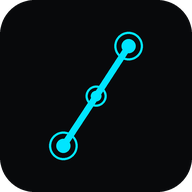
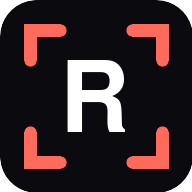
feat(brand): real ReadyMadeVideo identity from the legacy site assets
The rebrand had inherited Stromation's cyan node-arrow mark with the text
swapped — and every BINARY asset was still fully Stromation-branded, which
a text audit cannot catch: og.png served "STROMATION — Build a business
that runs itself" on every social share, and favicon.ico / icon-192/512 /
apple-touch-icon.png all carried the cyan mark.

Brought over the genuine ReadyMadeVideo identity from the legacy site
(~/Documents/readymade): the coral (#ff6b5b) viewfinder mark with the R,
plus compact wordmark and dark variants.

- favicon.svg + logos/ (logo, dark, icon, icon-dark) replace the
  text-swapped Stromation SVGs; stray stromation-icon.svg removed
- All binary icons regenerated from the real mark at proper density
  (favicon.ico 16/32/48, favicon-32x32, apple-touch 180, icons 192/512)
- og.png (1200x630) and banner rebuilt: viewfinder mark, READYMADEVIDEO
  eyebrow, "Raw footage in. Finished video out." matching the live h1
- Inline nav SVG swapped on all six content pages (2 instances each,
  header + footer); SVG favicon link added across all 12 root pages
- App SPA: src/assets/icon.svg (bundled into nav/login/editor via vite)
  replaced with the real mark; app/public/ created so /favicon.ico,
  /favicon-32x32.png and /apple-touch-icon.png referenced by app/index.html
  actually exist on Vercel (they previously 404'd into the SPA rewrite)

Verified: zero #00E5FF (old cyan) left in any served file, vite build OK,
frontend tests pass.

diff --git a/index.html b/index.html
@@ -6,6 +6,7 @@
 <title>ReadyMadeVideo — Raw footage in. Finished video out.</title>
 <meta name="description" content="Upload your raw footage, describe the style you want, and ReadyMadeVideo builds the complete first edit.">
 <link rel="canonical" href="https://www.readymadevideo.com/">
+<link rel="icon" type="image/svg+xml" href="favicon.svg">
 <link rel="icon" type="image/x-icon" href="favicon.ico">
 <link rel="apple-touch-icon" sizes="180x180" href="favicon.ico">
 <meta name="theme-color" content="#0a0a0f">
@@ -244,7 +245,11 @@ section{padding:96px 0}
 <a href="#main" class="skip">Skip to content</a>
 <nav class="nav" id="nav">
   <a href="index.html" class="nav-logo" aria-label="ReadyMadeVideo home">
-    <svg viewBox="0 0 500 600" fill="none" xmlns="http://www.w3.org/2000/svg" aria-hidden="true" width="28" height="28"><defs><marker id="c1" viewBox="0 0 12 12" refX="10" refY="6" markerWidth="4" markerHeight="4" orient="auto"><path d="M2 2L10 6L2 10" fill="none" stroke="#00E5FF" stroke-width="2" stroke-linecap="round" stroke-linejoin="round"/></marker><marker id="c2" viewBox="0 0 12 12" refX="10" refY="6" markerWidth="4" markerHeight="4" orient="auto"><path d="M2 2L10 6L2 10" fill="none" stroke="#00E5FF" stroke-width="2" stroke-linecap="round" stroke-linejoin="round"/></marker></defs><path d="M333,108 C240,100 125,162 124,252 C123,312 194,328 232,332" fill="none" stroke="#00E5FF" stroke-width="14" stroke-linecap="round" marker-end="url(#c1)"/><path d="M268,344 C366,362 394,444 368,506 C346,558 262,572 168,568" fill="none" stroke="#00E5FF" stroke-width="14" stroke-linecap="round" marker-end="url(#c2)"/><circle cx="355" cy="100" r="58" fill="none" stroke="#00E5FF" stroke-width="1" opacity="0.07"/><circle cx="355" cy="100" r="40" fill="none" stroke="#00E5FF" stroke-width="1.5" opacity="0.18"/><circle cx="355" cy="100" r="24" fill="none" stroke="#00E5FF" stroke-width="2.8"/><circle cx="355" cy="100" r="10" fill="#00E5FF"/><circle cx="250" cy="338" r="20" fill="none" stroke="#00E5FF" stroke-width="2.8"/><circle cx="250" cy="338" r="9" fill="#00E5FF"/><circle cx="145" cy="572" r="58" fill="none" stroke="#00E5FF" stroke-width="1" opacity="0.07"/><circle cx="145" cy="572" r="40" fill="none" stroke="#00E5FF" stroke-width="1.5" opacity="0.18"/><circle cx="145" cy="572" r="24" fill="none" stroke="#00E5FF" stroke-width="2.8"/><circle cx="145" cy="572" r="10" fill="#00E5FF"/></svg>
+    <svg viewBox="0 0 40 40" width="28" height="28" xmlns="http://www.w3.org/2000/svg" aria-hidden="true"><path d="M3 10 L3 3 L10 3" stroke="#ff6b5b" stroke-width="2.5" fill="none" stroke-linecap="round"/>
+    <path d="M30 3 L37 3 L37 10" stroke="#ff6b5b" stroke-width="2.5" fill="none" stroke-linecap="round"/>
+    <path d="M37 30 L37 37 L30 37" stroke="#ff6b5b" stroke-width="2.5" fill="none" stroke-linecap="round"/>
+    <path d="M10 37 L3 37 L3 30" stroke="#ff6b5b" stroke-width="2.5" fill="none" stroke-linecap="round"/>
+    <text x="12" y="28" font-family="Syne, sans-serif" font-size="22" font-weight="700" fill="#ffffff">R</text></svg>
     <span class="nav-logo-text">READYMADEVIDEO</span>
   </a>
   <div class="nav-links" id="nav-links">
@@ -498,7 +503,11 @@ section{padding:96px 0}
     <div class="footer-grid">
       <div class="footer-brand">
         <a href="index.html" class="nav-logo" style="display:inline-flex" aria-label="ReadyMadeVideo home">
-          <svg viewBox="0 0 500 600" fill="none" xmlns="http://www.w3.org/2000/svg" aria-hidden="true" width="22" height="22"><defs><marker id="c1" viewBox="0 0 12 12" refX="10" refY="6" markerWidth="4" markerHeight="4" orient="auto"><path d="M2 2L10 6L2 10" fill="none" stroke="#00E5FF" stroke-width="2" stroke-linecap="round" stroke-linejoin="round"/></marker><marker id="c2" viewBox="0 0 12 12" refX="10" refY="6" markerWidth="4" markerHeight="4" orient="auto"><path d="M2 2L10 6L2 10" fill="none" stroke="#00E5FF" stroke-width="2" stroke-linecap="round" stroke-linejoin="round"/></marker></defs><path d="M333,108 C240,100 125,162 124,252 C123,312 194,328 232,332" fill="none" stroke="#00E5FF" stroke-width="14" stroke-linecap="round" marker-end="url(#c1)"/><path d="M268,344 C366,362 394,444 368,506 C346,558 262,572 168,568" fill="none" stroke="#00E5FF" stroke-width="14" stroke-linecap="round" marker-end="url(#c2)"/><circle cx="355" cy="100" r="58" fill="none" stroke="#00E5FF" stroke-width="1" opacity="0.07"/><circle cx="355" cy="100" r="40" fill="none" stroke="#00E5FF" stroke-width="1.5" opacity="0.18"/><circle cx="355" cy="100" r="24" fill="none" stroke="#00E5FF" stroke-width="2.8"/><circle cx="355" cy="100" r="10" fill="#00E5FF"/><circle cx="250" cy="338" r="20" fill="none" stroke="#00E5FF" stroke-width="2.8"/><circle cx="250" cy="338" r="9" fill="#00E5FF"/><circle cx="145" cy="572" r="58" fill="none" stroke="#00E5FF" stroke-width="1" opacity="0.07"/><circle cx="145" cy="572" r="40" fill="none" stroke="#00E5FF" stroke-width="1.5" opacity="0.18"/><circle cx="145" cy="572" r="24" fill="none" stroke="#00E5FF" stroke-width="2.8"/><circle cx="145" cy="572" r="10" fill="#00E5FF"/></svg>
+          <svg viewBox="0 0 40 40" width="28" height="28" xmlns="http://www.w3.org/2000/svg" aria-hidden="true"><path d="M3 10 L3 3 L10 3" stroke="#ff6b5b" stroke-width="2.5" fill="none" stroke-linecap="round"/>
+    <path d="M30 3 L37 3 L37 10" stroke="#ff6b5b" stroke-width="2.5" fill="none" stroke-linecap="round"/>
+    <path d="M37 30 L37 37 L30 37" stroke="#ff6b5b" stroke-width="2.5" fill="none" stroke-linecap="round"/>
+    <path d="M10 37 L3 37 L3 30" stroke="#ff6b5b" stroke-width="2.5" fill="none" stroke-linecap="round"/>
+    <text x="12" y="28" font-family="Syne, sans-serif" font-size="22" font-weight="700" fill="#ffffff">R</text></svg>
           <span class="nav-logo-text" style="margin-left:8px">READYMADEVIDEO</span>
         </a>
         <p>AI-first video production platform. Upload raw footage, describe your vision, receive a complete edit.</p>

diff --git a/pricing.html b/pricing.html
@@ -6,6 +6,7 @@
 <title>Pricing — ReadyMadeVideo</title>
 <meta name="description" content="Early access pricing. No public plans yet.">
 <link rel="canonical" href="https://www.readymadevideo.com/pricing.html">
+<link rel="icon" type="image/svg+xml" href="favicon.svg">
 <link rel="icon" type="image/x-icon" href="favicon.ico">
 <meta name="theme-color" content="#0a0a0f">
 <meta property="og:type" content="website">
@@ -121,7 +122,11 @@ details[open] .faq-q::after{content:'&minus;'}
 <a href="#main" class="skip">Skip to content</a>
 <nav class="nav" id="nav">
   <a href="index.html" class="nav-logo" aria-label="ReadyMadeVideo home">
-    <svg viewBox="0 0 500 600" fill="none" xmlns="http://www.w3.org/2000/svg" aria-hidden="true" width="28" height="28"><defs><marker id="c1" viewBox="0 0 12 12" refX="10" refY="6" markerWidth="4" markerHeight="4" orient="auto"><path d="M2 2L10 6L2 10" fill="none" stroke="#00E5FF" stroke-width="2" stroke-linecap="round" stroke-linejoin="round"/></marker><marker id="c2" viewBox="0 0 12 12" refX="10" refY="6" markerWidth="4" markerHeight="4" orient="auto"><path d="M2 2L10 6L2 10" fill="none" stroke="#00E5FF" stroke-width="2" stroke-linecap="round" stroke-linejoin="round"/></marker></defs><path d="M333,108 C240,100 125,162 124,252 C123,312 194,328 232,332" fill="none" stroke="#00E5FF" stroke-width="14" stroke-linecap="round" marker-end="url(#c1)"/><path d="M268,344 C366,362 394,444 368,506 C346,558 262,572 168,568" fill="none" stroke="#00E5FF" stroke-width="14" stroke-linecap="round" marker-end="url(#c2)"/><circle cx="355" cy="100" r="58" fill="none" stroke="#00E5FF" stroke-width="1" opacity="0.07"/><circle cx="355" cy="100" r="40" fill="none" stroke="#00E5FF" stroke-width="1.5" opacity="0.18"/><circle cx="355" cy="100" r="24" fill="none" stroke="#00E5FF" stroke-width="2.8"/><circle cx="355" cy="100" r="10" fill="#00E5FF"/><circle cx="250" cy="338" r="20" fill="none" stroke="#00E5FF" stroke-width="2.8"/><circle cx="250" cy="338" r="9" fill="#00E5FF"/><circle cx="145" cy="572" r="58" fill="none" stroke="#00E5FF" stroke-width="1" opacity="0.07"/><circle cx="145" cy="572" r="40" fill="none" stroke="#00E5FF" stroke-width="1.5" opacity="0.18"/><circle cx="145" cy="572" r="24" fill="none" stroke="#00E5FF" stroke-width="2.8"/><circle cx="145" cy="572" r="10" fill="#00E5FF"/></svg>
+    <svg viewBox="0 0 40 40" width="28" height="28" xmlns="http://www.w3.org/2000/svg" aria-hidden="true"><path d="M3 10 L3 3 L10 3" stroke="#ff6b5b" stroke-width="2.5" fill="none" stroke-linecap="round"/>
+    <path d="M30 3 L37 3 L37 10" stroke="#ff6b5b" stroke-width="2.5" fill="none" stroke-linecap="round"/>
+    <path d="M37 30 L37 37 L30 37" stroke="#ff6b5b" stroke-width="2.5" fill="none" stroke-linecap="round"/>
+    <path d="M10 37 L3 37 L3 30" stroke="#ff6b5b" stroke-width="2.5" fill="none" stroke-linecap="round"/>
+    <text x="12" y="28" font-family="Syne, sans-serif" font-size="22" font-weight="700" fill="#ffffff">R</text></svg>
     <span class="nav-logo-text">READYMADEVIDEO</span>
   </a>
   <div class="nav-links" id="nav-links">
@@ -182,7 +187,11 @@ details[open] .faq-q::after{content:'&minus;'}
     <div class="footer-grid">
       <div class="footer-brand">
         <a href="index.html" class="nav-logo" style="display:inline-flex" aria-label="ReadyMadeVideo home">
-          <svg viewBox="0 0 500 600" fill="none" xmlns="http://www.w3.org/2000/svg" aria-hidden="true" width="22" height="22"><defs><marker id="c1" viewBox="0 0 12 12" refX="10" refY="6" markerWidth="4" markerHeight="4" orient="auto"><path d="M2 2L10 6L2 10" fill="none" stroke="#00E5FF" stroke-width="2" stroke-linecap="round" stroke-linejoin="round"/></marker><marker id="c2" viewBox="0 0 12 12" refX="10" refY="6" markerWidth="4" markerHeight="4" orient="auto"><path d="M2 2L10 6L2 10" fill="none" stroke="#00E5FF" stroke-width="2" stroke-linecap="round" stroke-linejoin="round"/></marker></defs><path d="M333,108 C240,100 125,162 124,252 C123,312 194,328 232,332" fill="none" stroke="#00E5FF" stroke-width="14" stroke-linecap="round" marker-end="url(#c1)"/><path d="M268,344 C366,362 394,444 368,506 C346,558 262,572 168,568" fill="none" stroke="#00E5FF" stroke-width="14" stroke-linecap="round" marker-end="url(#c2)"/><circle cx="355" cy="100" r="58" fill="none" stroke="#00E5FF" stroke-width="1" opacity="0.07"/><circle cx="355" cy="100" r="40" fill="none" stroke="#00E5FF" stroke-width="1.5" opacity="0.18"/><circle cx="355" cy="100" r="24" fill="none" stroke="#00E5FF" stroke-width="2.8"/><circle cx="355" cy="100" r="10" fill="#00E5FF"/><circle cx="250" cy="338" r="20" fill="none" stroke="#00E5FF" stroke-width="2.8"/><circle cx="250" cy="338" r="9" fill="#00E5FF"/><circle cx="145" cy="572" r="58" fill="none" stroke="#00E5FF" stroke-width="1" opacity="0.07"/><circle cx="145" cy="572" r="40" fill="none" stroke="#00E5FF" stroke-width="1.5" opacity="0.18"/><circle cx="145" cy="572" r="24" fill="none" stroke="#00E5FF" stroke-width="2.8"/><circle cx="145" cy="572" r="10" fill="#00E5FF"/></svg>
+          <svg viewBox="0 0 40 40" width="28" height="28" xmlns="http://www.w3.org/2000/svg" aria-hidden="true"><path d="M3 10 L3 3 L10 3" stroke="#ff6b5b" stroke-width="2.5" fill="none" stroke-linecap="round"/>
+    <path d="M30 3 L37 3 L37 10" stroke="#ff6b5b" stroke-width="2.5" fill="none" stroke-linecap="round"/>
+    <path d="M37 30 L37 37 L30 37" stroke="#ff6b5b" stroke-width="2.5" fill="none" stroke-linecap="round"/>
+    <path d="M10 37 L3 37 L3 30" stroke="#ff6b5b" stroke-width="2.5" fill="none" stroke-linecap="round"/>
+    <text x="12" y="28" font-family="Syne, sans-serif" font-size="22" font-weight="700" fill="#ffffff">R</text></svg>
           <span class="nav-logo-text" style="margin-left:8px">READYMADEVIDEO</span>
         </a>
         <p>AI-first video production platform. Upload raw footage, describe your vision, receive a complete edit.</p>

diff --git a/about.html b/about.html
@@ -6,6 +6,7 @@
 <title>About — ReadyMadeVideo</title>
 <meta name="description" content="ReadyMadeVideo is an AI-first video production platform being built by Darius Stroman, a software engineer and systems professional.">
 <link rel="canonical" href="https://www.readymadevideo.com/about.html">
+<link rel="icon" type="image/svg+xml" href="favicon.svg">
 <link rel="icon" type="image/x-icon" href="favicon.ico">
 <meta name="theme-color" content="#0a0a0f">
 <meta property="og:type" content="website">
@@ -34,7 +35,11 @@
 <a href="#main" class="skip">Skip to content</a>
 <nav class="nav" id="nav">
   <a href="index.html" class="nav-logo" aria-label="ReadyMadeVideo home">
-    <svg viewBox="0 0 500 600" fill="none" xmlns="http://www.w3.org/2000/svg" aria-hidden="true" width="28" height="28"><defs><marker id="c1" viewBox="0 0 12 12" refX="10" refY="6" markerWidth="4" markerHeight="4" orient="auto"><path d="M2 2L10 6L2 10" fill="none" stroke="#00E5FF" stroke-width="2" stroke-linecap="round" stroke-linejoin="round"/></marker><marker id="c2" viewBox="0 0 12 12" refX="10" refY="6" markerWidth="4" markerHeight="4" orient="auto"><path d="M2 2L10 6L2 10" fill="none" stroke="#00E5FF" stroke-width="2" stroke-linecap="round" stroke-linejoin="round"/></marker></defs><path d="M333,108 C240,100 125,162 124,252 C123,312 194,328 232,332" fill="none" stroke="#00E5FF" stroke-width="14" stroke-linecap="round" marker-end="url(#c1)"/><path d="M268,344 C366,362 394,444 368,506 C346,558 262,572 168,568" fill="none" stroke="#00E5FF" stroke-width="14" stroke-linecap="round" marker-end="url(#c2)"/><circle cx="355" cy="100" r="58" fill="none" stroke="#00E5FF" stroke-width="1" opacity="0.07"/><circle cx="355" cy="100" r="40" fill="none" stroke="#00E5FF" stroke-width="1.5" opacity="0.18"/><circle cx="355" cy="100" r="24" fill="none" stroke="#00E5FF" stroke-width="2.8"/><circle cx="355" cy="100" r="10" fill="#00E5FF"/><circle cx="250" cy="338" r="20" fill="none" stroke="#00E5FF" stroke-width="2.8"/><circle cx="250" cy="338" r="9" fill="#00E5FF"/><circle cx="145" cy="572" r="58" fill="none" stroke="#00E5FF" stroke-width="1" opacity="0.07"/><circle cx="145" cy="572" r="40" fill="none" stroke="#00E5FF" stroke-width="1.5" opacity="0.18"/><circle cx="145" cy="572" r="24" fill="none" stroke="#00E5FF" stroke-width="2.8"/><circle cx="145" cy="572" r="10" fill="#00E5FF"/></svg>
+    <svg viewBox="0 0 40 40" width="28" height="28" xmlns="http://www.w3.org/2000/svg" aria-hidden="true"><path d="M3 10 L3 3 L10 3" stroke="#ff6b5b" stroke-width="2.5" fill="none" stroke-linecap="round"/>
+    <path d="M30 3 L37 3 L37 10" stroke="#ff6b5b" stroke-width="2.5" fill="none" stroke-linecap="round"/>
+    <path d="M37 30 L37 37 L30 37" stroke="#ff6b5b" stroke-width="2.5" fill="none" stroke-linecap="round"/>
+    <path d="M10 37 L3 37 L3 30" stroke="#ff6b5b" stroke-width="2.5" fill="none" stroke-linecap="round"/>
+    <text x="12" y="28" font-family="Syne, sans-serif" font-size="22" font-weight="700" fill="#ffffff">R</text></svg>
     <span class="nav-logo-text">READYMADEVIDEO</span>
   </a>
   <div class="nav-links" id="nav-links">
@@ -84,7 +89,11 @@
     <div class="footer-grid">
       <div class="footer-brand">
         <a href="index.html" class="nav-logo" style="display:inline-flex" aria-label="ReadyMadeVideo home">
-          <svg viewBox="0 0 500 600" fill="none" xmlns="http://www.w3.org/2000/svg" aria-hidden="true" width="22" height="22"><defs><marker id="c1" viewBox="0 0 12 12" refX="10" refY="6" markerWidth="4" markerHeight="4" orient="auto"><path d="M2 2L10 6L2 10" fill="none" stroke="#00E5FF" stroke-width="2" stroke-linecap="round" stroke-linejoin="round"/></marker><marker id="c2" viewBox="0 0 12 12" refX="10" refY="6" markerWidth="4" markerHeight="4" orient="auto"><path d="M2 2L10 6L2 10" fill="none" stroke="#00E5FF" stroke-width="2" stroke-linecap="round" stroke-linejoin="round"/></marker></defs><path d="M333,108 C240,100 125,162 124,252 C123,312 194,328 232,332" fill="none" stroke="#00E5FF" stroke-width="14" stroke-linecap="round" marker-end="url(#c1)"/><path d="M268,344 C366,362 394,444 368,506 C346,558 262,572 168,568" fill="none" stroke="#00E5FF" stroke-width="14" stroke-linecap="round" marker-end="url(#c2)"/><circle cx="355" cy="100" r="58" fill="none" stroke="#00E5FF" stroke-width="1" opacity="0.07"/><circle cx="355" cy="100" r="40" fill="none" stroke="#00E5FF" stroke-width="1.5" opacity="0.18"/><circle cx="355" cy="100" r="24" fill="none" stroke="#00E5FF" stroke-width="2.8"/><circle cx="355" cy="100" r="10" fill="#00E5FF"/><circle cx="250" cy="338" r="20" fill="none" stroke="#00E5FF" stroke-width="2.8"/><circle cx="250" cy="338" r="9" fill="#00E5FF"/><circle cx="145" cy="572" r="58" fill="none" stroke="#00E5FF" stroke-width="1" opacity="0.07"/><circle cx="145" cy="572" r="40" fill="none" stroke="#00E5FF" stroke-width="1.5" opacity="0.18"/><circle cx="145" cy="572" r="24" fill="none" stroke="#00E5FF" stroke-width="2.8"/><circle cx="145" cy="572" r="10" fill="#00E5FF"/></svg>
+          <svg viewBox="0 0 40 40" width="28" height="28" xmlns="http://www.w3.org/2000/svg" aria-hidden="true"><path d="M3 10 L3 3 L10 3" stroke="#ff6b5b" stroke-width="2.5" fill="none" stroke-linecap="round"/>
+    <path d="M30 3 L37 3 L37 10" stroke="#ff6b5b" stroke-width="2.5" fill="none" stroke-linecap="round"/>
+    <path d="M37 30 L37 37 L30 37" stroke="#ff6b5b" stroke-width="2.5" fill="none" stroke-linecap="round"/>
+    <path d="M10 37 L3 37 L3 30" stroke="#ff6b5b" stroke-width="2.5" fill="none" stroke-linecap="round"/>
+    <text x="12" y="28" font-family="Syne, sans-serif" font-size="22" font-weight="700" fill="#ffffff">R</text></svg>
           <span class="nav-logo-text" style="margin-left:8px">READYMADEVIDEO</span>
         </a>
         <p>AI-first video production platform. Upload raw footage, describe your vision, receive a complete edit.</p>

diff --git a/privacy.html b/privacy.html
@@ -6,6 +6,7 @@
 <title>Privacy Policy — ReadyMadeVideo</title>
 <meta name="description" content="How ReadyMadeVideo handles your footage, account data, and AI processing.">
 <link rel="canonical" href="https://www.readymadevideo.com/privacy.html">
+<link rel="icon" type="image/svg+xml" href="favicon.svg">
 <link rel="icon" type="image/x-icon" href="favicon.ico">
 <meta name="theme-color" content="#0a0a0f">
 <meta property="og:type" content="website">
@@ -37,7 +38,11 @@
 <body><a href="#main" class="skip">Skip to content</a>
 <nav class="nav" id="nav">
   <a href="index.html" class="nav-logo" aria-label="ReadyMadeVideo home">
-    <svg viewBox="0 0 500 600" fill="none" xmlns="http://www.w3.org/2000/svg" aria-hidden="true" width="28" height="28"><defs><marker id="c1" viewBox="0 0 12 12" refX="10" refY="6" markerWidth="4" markerHeight="4" orient="auto"><path d="M2 2L10 6L2 10" fill="none" stroke="#00E5FF" stroke-width="2" stroke-linecap="round" stroke-linejoin="round"/></marker><marker id="c2" viewBox="0 0 12 12" refX="10" refY="6" markerWidth="4" markerHeight="4" orient="auto"><path d="M2 2L10 6L2 10" fill="none" stroke="#00E5FF" stroke-width="2" stroke-linecap="round" stroke-linejoin="round"/></marker></defs><path d="M333,108 C240,100 125,162 124,252 C123,312 194,328 232,332" fill="none" stroke="#00E5FF" stroke-width="14" stroke-linecap="round" marker-end="url(#c1)"/><path d="M268,344 C366,362 394,444 368,506 C346,558 262,572 168,568" fill="none" stroke="#00E5FF" stroke-width="14" stroke-linecap="round" marker-end="url(#c2)"/><circle cx="355" cy="100" r="58" fill="none" stroke="#00E5FF" stroke-width="1" opacity="0.07"/><circle cx="355" cy="100" r="40" fill="none" stroke="#00E5FF" stroke-width="1.5" opacity="0.18"/><circle cx="355" cy="100" r="24" fill="none" stroke="#00E5FF" stroke-width="2.8"/><circle cx="355" cy="100" r="10" fill="#00E5FF"/><circle cx="250" cy="338" r="20" fill="none" stroke="#00E5FF" stroke-width="2.8"/><circle cx="250" cy="338" r="9" fill="#00E5FF"/><circle cx="145" cy="572" r="58" fill="none" stroke="#00E5FF" stroke-width="1" opacity="0.07"/><circle cx="145" cy="572" r="40" fill="none" stroke="#00E5FF" stroke-width="1.5" opacity="0.18"/><circle cx="145" cy="572" r="24" fill="none" stroke="#00E5FF" stroke-width="2.8"/><circle cx="145" cy="572" r="10" fill="#00E5FF"/></svg>
+    <svg viewBox="0 0 40 40" width="28" height="28" xmlns="http://www.w3.org/2000/svg" aria-hidden="true"><path d="M3 10 L3 3 L10 3" stroke="#ff6b5b" stroke-width="2.5" fill="none" stroke-linecap="round"/>
+    <path d="M30 3 L37 3 L37 10" stroke="#ff6b5b" stroke-width="2.5" fill="none" stroke-linecap="round"/>
+    <path d="M37 30 L37 37 L30 37" stroke="#ff6b5b" stroke-width="2.5" fill="none" stroke-linecap="round"/>
+    <path d="M10 37 L3 37 L3 30" stroke="#ff6b5b" stroke-width="2.5" fill="none" stroke-linecap="round"/>
+    <text x="12" y="28" font-family="Syne, sans-serif" font-size="22" font-weight="700" fill="#ffffff">R</text></svg>
     <span class="nav-logo-text">READYMADEVIDEO</span>
   </a>
   <div class="nav-links" id="nav-links">
@@ -110,7 +115,11 @@
     <div class="footer-grid">
       <div class="footer-brand">
         <a href="index.html" class="nav-logo" style="display:inline-flex" aria-label="ReadyMadeVideo home">
-          <svg viewBox="0 0 500 600" fill="none" xmlns="http://www.w3.org/2000/svg" aria-hidden="true" width="22" height="22"><defs><marker id="c1" viewBox="0 0 12 12" refX="10" refY="6" markerWidth="4" markerHeight="4" orient="auto"><path d="M2 2L10 6L2 10" fill="none" stroke="#00E5FF" stroke-width="2" stroke-linecap="round" stroke-linejoin="round"/></marker><marker id="c2" viewBox="0 0 12 12" refX="10" refY="6" markerWidth="4" markerHeight="4" orient="auto"><path d="M2 2L10 6L2 10" fill="none" stroke="#00E5FF" stroke-width="2" stroke-linecap="round" stroke-linejoin="round"/></marker></defs><path d="M333,108 C240,100 125,162 124,252 C123,312 194,328 232,332" fill="none" stroke="#00E5FF" stroke-width="14" stroke-linecap="round" marker-end="url(#c1)"/><path d="M268,344 C366,362 394,444 368,506 C346,558 262,572 168,568" fill="none" stroke="#00E5FF" stroke-width="14" stroke-linecap="round" marker-end="url(#c2)"/><circle cx="355" cy="100" r="58" fill="none" stroke="#00E5FF" stroke-width="1" opacity="0.07"/><circle cx="355" cy="100" r="40" fill="none" stroke="#00E5FF" stroke-width="1.5" opacity="0.18"/><circle cx="355" cy="100" r="24" fill="none" stroke="#00E5FF" stroke-width="2.8"/><circle cx="355" cy="100" r="10" fill="#00E5FF"/><circle cx="250" cy="338" r="20" fill="none" stroke="#00E5FF" stroke-width="2.8"/><circle cx="250" cy="338" r="9" fill="#00E5FF"/><circle cx="145" cy="572" r="58" fill="none" stroke="#00E5FF" stroke-width="1" opacity="0.07"/><circle cx="145" cy="572" r="40" fill="none" stroke="#00E5FF" stroke-width="1.5" opacity="0.18"/><circle cx="145" cy="572" r="24" fill="none" stroke="#00E5FF" stroke-width="2.8"/><circle cx="145" cy="572" r="10" fill="#00E5FF"/></svg>
+          <svg viewBox="0 0 40 40" width="28" height="28" xmlns="http://www.w3.org/2000/svg" aria-hidden="true"><path d="M3 10 L3 3 L10 3" stroke="#ff6b5b" stroke-width="2.5" fill="none" stroke-linecap="round"/>
+    <path d="M30 3 L37 3 L37 10" stroke="#ff6b5b" stroke-width="2.5" fill="none" stroke-linecap="round"/>
+    <path d="M37 30 L37 37 L30 37" stroke="#ff6b5b" stroke-width="2.5" fill="none" stroke-linecap="round"/>
+    <path d="M10 37 L3 37 L3 30" stroke="#ff6b5b" stroke-width="2.5" fill="none" stroke-linecap="round"/>
+    <text x="12" y="28" font-family="Syne, sans-serif" font-size="22" font-weight="700" fill="#ffffff">R</text></svg>
           <span class="nav-logo-text" style="margin-left:8px">READYMADEVIDEO</span>
         </a>
         <p>AI-first video production platform. Upload raw footage, describe your vision, receive a complete edit.</p>

diff --git a/showcase.html b/showcase.html
@@ -6,6 +6,7 @@
 <title>Showcase — ReadyMadeVideo</title>
 <meta name="description" content="See what ReadyMadeVideo creates.">
 <link rel="canonical" href="https://www.readymadevideo.com/showcase.html">
+<link rel="icon" type="image/svg+xml" href="favicon.svg">
 <link rel="icon" type="image/x-icon" href="favicon.ico">
 <meta name="theme-color" content="#0a0a0f">
 <meta property="og:type" content="website">
@@ -127,7 +128,11 @@ section{padding:96px 0}
 <a href="#main" class="skip">Skip to content</a>
 <nav class="nav" id="nav">
   <a href="index.html" class="nav-logo" aria-label="ReadyMadeVideo home">
-    <svg viewBox="0 0 500 600" fill="none" xmlns="http://www.w3.org/2000/svg" aria-hidden="true" width="28" height="28"><defs><marker id="c1" viewBox="0 0 12 12" refX="10" refY="6" markerWidth="4" markerHeight="4" orient="auto"><path d="M2 2L10 6L2 10" fill="none" stroke="#00E5FF" stroke-width="2" stroke-linecap="round" stroke-linejoin="round"/></marker><marker id="c2" viewBox="0 0 12 12" refX="10" refY="6" markerWidth="4" markerHeight="4" orient="auto"><path d="M2 2L10 6L2 10" fill="none" stroke="#00E5FF" stroke-width="2" stroke-linecap="round" stroke-linejoin="round"/></marker></defs><path d="M333,108 C240,100 125,162 124,252 C123,312 194,328 232,332" fill="none" stroke="#00E5FF" stroke-width="14" stroke-linecap="round" marker-end="url(#c1)"/><path d="M268,344 C366,362 394,444 368,506 C346,558 262,572 168,568" fill="none" stroke="#00E5FF" stroke-width="14" stroke-linecap="round" marker-end="url(#c2)"/><circle cx="355" cy="100" r="58" fill="none" stroke="#00E5FF" stroke-width="1" opacity="0.07"/><circle cx="355" cy="100" r="40" fill="none" stroke="#00E5FF" stroke-width="1.5" opacity="0.18"/><circle cx="355" cy="100" r="24" fill="none" stroke="#00E5FF" stroke-width="2.8"/><circle cx="355" cy="100" r="10" fill="#00E5FF"/><circle cx="250" cy="338" r="20" fill="none" stroke="#00E5FF" stroke-width="2.8"/><circle cx="250" cy="338" r="9" fill="#00E5FF"/><circle cx="145" cy="572" r="58" fill="none" stroke="#00E5FF" stroke-width="1" opacity="0.07"/><circle cx="145" cy="572" r="40" fill="none" stroke="#00E5FF" stroke-width="1.5" opacity="0.18"/><circle cx="145" cy="572" r="24" fill="none" stroke="#00E5FF" stroke-width="2.8"/><circle cx="145" cy="572" r="10" fill="#00E5FF"/></svg>
+    <svg viewBox="0 0 40 40" width="28" height="28" xmlns="http://www.w3.org/2000/svg" aria-hidden="true"><path d="M3 10 L3 3 L10 3" stroke="#ff6b5b" stroke-width="2.5" fill="none" stroke-linecap="round"/>
+    <path d="M30 3 L37 3 L37 10" stroke="#ff6b5b" stroke-width="2.5" fill="none" stroke-linecap="round"/>
+    <path d="M37 30 L37 37 L30 37" stroke="#ff6b5b" stroke-width="2.5" fill="none" stroke-linecap="round"/>
+    <path d="M10 37 L3 37 L3 30" stroke="#ff6b5b" stroke-width="2.5" fill="none" stroke-linecap="round"/>
+    <text x="12" y="28" font-family="Syne, sans-serif" font-size="22" font-weight="700" fill="#ffffff">R</text></svg>
     <span class="nav-logo-text">READYMADEVIDEO</span>
   </a>
   <div class="nav-links" id="nav-links">
@@ -206,7 +211,11 @@ section{padding:96px 0}
     <div class="footer-grid">
       <div class="footer-brand">
         <a href="index.html" class="nav-logo" style="display:inline-flex" aria-label="ReadyMadeVideo home">
-          <svg viewBox="0 0 500 600" fill="none" xmlns="http://www.w3.org/2000/svg" aria-hidden="true" width="22" height="22"><defs><marker id="c1" viewBox="0 0 12 12" refX="10" refY="6" markerWidth="4" markerHeight="4" orient="auto"><path d="M2 2L10 6L2 10" fill="none" stroke="#00E5FF" stroke-width="2" stroke-linecap="round" stroke-linejoin="round"/></marker><marker id="c2" viewBox="0 0 12 12" refX="10" refY="6" markerWidth="4" markerHeight="4" orient="auto"><path d="M2 2L10 6L2 10" fill="none" stroke="#00E5FF" stroke-width="2" stroke-linecap="round" stroke-linejoin="round"/></marker></defs><path d="M333,108 C240,100 125,162 124,252 C123,312 194,328 232,332" fill="none" stroke="#00E5FF" stroke-width="14" stroke-linecap="round" marker-end="url(#c1)"/><path d="M268,344 C366,362 394,444 368,506 C346,558 262,572 168,568" fill="none" stroke="#00E5FF" stroke-width="14" stroke-linecap="round" marker-end="url(#c2)"/><circle cx="355" cy="100" r="58" fill="none" stroke="#00E5FF" stroke-width="1" opacity="0.07"/><circle cx="355" cy="100" r="40" fill="none" stroke="#00E5FF" stroke-width="1.5" opacity="0.18"/><circle cx="355" cy="100" r="24" fill="none" stroke="#00E5FF" stroke-width="2.8"/><circle cx="355" cy="100" r="10" fill="#00E5FF"/><circle cx="250" cy="338" r="20" fill="none" stroke="#00E5FF" stroke-width="2.8"/><circle cx="250" cy="338" r="9" fill="#00E5FF"/><circle cx="145" cy="572" r="58" fill="none" stroke="#00E5FF" stroke-width="1" opacity="0.07"/><circle cx="145" cy="572" r="40" fill="none" stroke="#00E5FF" stroke-width="1.5" opacity="0.18"/><circle cx="145" cy="572" r="24" fill="none" stroke="#00E5FF" stroke-width="2.8"/><circle cx="145" cy="572" r="10" fill="#00E5FF"/></svg>
+          <svg viewBox="0 0 40 40" width="28" height="28" xmlns="http://www.w3.org/2000/svg" aria-hidden="true"><path d="M3 10 L3 3 L10 3" stroke="#ff6b5b" stroke-width="2.5" fill="none" stroke-linecap="round"/>
+    <path d="M30 3 L37 3 L37 10" stroke="#ff6b5b" stroke-width="2.5" fill="none" stroke-linecap="round"/>
+    <path d="M37 30 L37 37 L30 37" stroke="#ff6b5b" stroke-width="2.5" fill="none" stroke-linecap="round"/>
+    <path d="M10 37 L3 37 L3 30" stroke="#ff6b5b" stroke-width="2.5" fill="none" stroke-linecap="round"/>
+    <text x="12" y="28" font-family="Syne, sans-serif" font-size="22" font-weight="700" fill="#ffffff">R</text></svg>
           <span class="nav-logo-text" style="margin-left:8px">READYMADEVIDEO</span>
         </a>
         <p>AI-first video production platform. Upload raw footage, describe your vision, receive a complete edit.</p>

diff --git a/terms.html b/terms.html
@@ -6,6 +6,7 @@
 <title>Terms of Service — ReadyMadeVideo</title>
 <meta name="description" content="Terms governing use of the ReadyMadeVideo video production platform.">
 <link rel="canonical" href="https://www.readymadevideo.com/terms.html">
+<link rel="icon" type="image/svg+xml" href="favicon.svg">
 <link rel="icon" type="image/x-icon" href="favicon.ico">
 <meta name="theme-color" content="#0a0a0f">
 <meta property="og:type" content="website">
@@ -37,7 +38,11 @@
 <body><a href="#main" class="skip">Skip to content</a>
 <nav class="nav" id="nav">
   <a href="index.html" class="nav-logo" aria-label="ReadyMadeVideo home">
-    <svg viewBox="0 0 500 600" fill="none" xmlns="http://www.w3.org/2000/svg" aria-hidden="true" width="28" height="28"><defs><marker id="c1" viewBox="0 0 12 12" refX="10" refY="6" markerWidth="4" markerHeight="4" orient="auto"><path d="M2 2L10 6L2 10" fill="none" stroke="#00E5FF" stroke-width="2" stroke-linecap="round" stroke-linejoin="round"/></marker><marker id="c2" viewBox="0 0 12 12" refX="10" refY="6" markerWidth="4" markerHeight="4" orient="auto"><path d="M2 2L10 6L2 10" fill="none" stroke="#00E5FF" stroke-width="2" stroke-linecap="round" stroke-linejoin="round"/></marker></defs><path d="M333,108 C240,100 125,162 124,252 C123,312 194,328 232,332" fill="none" stroke="#00E5FF" stroke-width="14" stroke-linecap="round" marker-end="url(#c1)"/><path d="M268,344 C366,362 394,444 368,506 C346,558 262,572 168,568" fill="none" stroke="#00E5FF" stroke-width="14" stroke-linecap="round" marker-end="url(#c2)"/><circle cx="355" cy="100" r="58" fill="none" stroke="#00E5FF" stroke-width="1" opacity="0.07"/><circle cx="355" cy="100" r="40" fill="none" stroke="#00E5FF" stroke-width="1.5" opacity="0.18"/><circle cx="355" cy="100" r="24" fill="none" stroke="#00E5FF" stroke-width="2.8"/><circle cx="355" cy="100" r="10" fill="#00E5FF"/><circle cx="250" cy="338" r="20" fill="none" stroke="#00E5FF" stroke-width="2.8"/><circle cx="250" cy="338" r="9" fill="#00E5FF"/><circle cx="145" cy="572" r="58" fill="none" stroke="#00E5FF" stroke-width="1" opacity="0.07"/><circle cx="145" cy="572" r="40" fill="none" stroke="#00E5FF" stroke-width="1.5" opacity="0.18"/><circle cx="145" cy="572" r="24" fill="none" stroke="#00E5FF" stroke-width="2.8"/><circle cx="145" cy="572" r="10" fill="#00E5FF"/></svg>
+    <svg viewBox="0 0 40 40" width="28" height="28" xmlns="http://www.w3.org/2000/svg" aria-hidden="true"><path d="M3 10 L3 3 L10 3" stroke="#ff6b5b" stroke-width="2.5" fill="none" stroke-linecap="round"/>
+    <path d="M30 3 L37 3 L37 10" stroke="#ff6b5b" stroke-width="2.5" fill="none" stroke-linecap="round"/>
+    <path d="M37 30 L37 37 L30 37" stroke="#ff6b5b" stroke-width="2.5" fill="none" stroke-linecap="round"/>
+    <path d="M10 37 L3 37 L3 30" stroke="#ff6b5b" stroke-width="2.5" fill="none" stroke-linecap="round"/>
+    <text x="12" y="28" font-family="Syne, sans-serif" font-size="22" font-weight="700" fill="#ffffff">R</text></svg>
     <span class="nav-logo-text">READYMADEVIDEO</span>
   </a>
   <div class="nav-links" id="nav-links">
@@ -91,7 +96,11 @@
     <div class="footer-grid">
       <div class="footer-brand">
         <a href="index.html" class="nav-logo" style="display:inline-flex" aria-label="ReadyMadeVideo home">
-          <svg viewBox="0 0 500 600" fill="none" xmlns="http://www.w3.org/2000/svg" aria-hidden="true" width="22" height="22"><defs><marker id="c1" viewBox="0 0 12 12" refX="10" refY="6" markerWidth="4" markerHeight="4" orient="auto"><path d="M2 2L10 6L2 10" fill="none" stroke="#00E5FF" stroke-width="2" stroke-linecap="round" stroke-linejoin="round"/></marker><marker id="c2" viewBox="0 0 12 12" refX="10" refY="6" markerWidth="4" markerHeight="4" orient="auto"><path d="M2 2L10 6L2 10" fill="none" stroke="#00E5FF" stroke-width="2" stroke-linecap="round" stroke-linejoin="round"/></marker></defs><path d="M333,108 C240,100 125,162 124,252 C123,312 194,328 232,332" fill="none" stroke="#00E5FF" stroke-width="14" stroke-linecap="round" marker-end="url(#c1)"/><path d="M268,344 C366,362 394,444 368,506 C346,558 262,572 168,568" fill="none" stroke="#00E5FF" stroke-width="14" stroke-linecap="round" marker-end="url(#c2)"/><circle cx="355" cy="100" r="58" fill="none" stroke="#00E5FF" stroke-width="1" opacity="0.07"/><circle cx="355" cy="100" r="40" fill="none" stroke="#00E5FF" stroke-width="1.5" opacity="0.18"/><circle cx="355" cy="100" r="24" fill="none" stroke="#00E5FF" stroke-width="2.8"/><circle cx="355" cy="100" r="10" fill="#00E5FF"/><circle cx="250" cy="338" r="20" fill="none" stroke="#00E5FF" stroke-width="2.8"/><circle cx="250" cy="338" r="9" fill="#00E5FF"/><circle cx="145" cy="572" r="58" fill="none" stroke="#00E5FF" stroke-width="1" opacity="0.07"/><circle cx="145" cy="572" r="40" fill="none" stroke="#00E5FF" stroke-width="1.5" opacity="0.18"/><circle cx="145" cy="572" r="24" fill="none" stroke="#00E5FF" stroke-width="2.8"/><circle cx="145" cy="572" r="10" fill="#00E5FF"/></svg>
+          <svg viewBox="0 0 40 40" width="28" height="28" xmlns="http://www.w3.org/2000/svg" aria-hidden="true"><path d="M3 10 L3 3 L10 3" stroke="#ff6b5b" stroke-width="2.5" fill="none" stroke-linecap="round"/>
+    <path d="M30 3 L37 3 L37 10" stroke="#ff6b5b" stroke-width="2.5" fill="none" stroke-linecap="round"/>
+    <path d="M37 30 L37 37 L30 37" stroke="#ff6b5b" stroke-width="2.5" fill="none" stroke-linecap="round"/>
+    <path d="M10 37 L3 37 L3 30" stroke="#ff6b5b" stroke-width="2.5" fill="none" stroke-linecap="round"/>
+    <text x="12" y="28" font-family="Syne, sans-serif" font-size="22" font-weight="700" fill="#ffffff">R</text></svg>
           <span class="nav-logo-text" style="margin-left:8px">READYMADEVIDEO</span>
         </a>
         <p>AI-first video production platform. Upload raw footage, describe your vision, receive a complete edit.</p>

diff --git a/404.html b/404.html
@@ -5,6 +5,7 @@
 <meta name="viewport" content="width=device-width, initial-scale=1.0">
 <title>Page not found — ReadyMadeVideo</title>
 <meta name="description" content="The page you are looking for does not exist.">
+<link rel="icon" type="image/svg+xml" href="favicon.svg">
 <link rel="icon" type="image/x-icon" href="favicon.ico">
 <meta name="theme-color" content="#0a0a0f">
 <link rel="preconnect" href="https://fonts.googleapis.com">

diff --git a/processing.html b/processing.html
@@ -6,6 +6,7 @@
 <title>Processing — ReadyMadeVideo</title>
 <meta name="description" content="ReadyMadeVideo is analyzing your footage.">
 <link rel="canonical" href="https://www.readymadevideo.com/processing.html">
+<link rel="icon" type="image/svg+xml" href="favicon.svg">
 <link rel="icon" type="image/x-icon" href="favicon.ico">
 <meta name="theme-color" content="#0a0a0f">
 <meta property="og:type" content="website">

diff --git a/dashboard.html b/dashboard.html
@@ -4,6 +4,7 @@
   <meta charset="UTF-8" />
   <meta http-equiv="refresh" content="0;url=https://app.readymadevideo.com" />
   <title>ReadyMadeVideo — Redirecting…</title>
+<link rel="icon" type="image/svg+xml" href="favicon.svg">
   <style>
     body { margin: 0; background: #0a0a0f; color: #e2e8f0; font-family: -apple-system, sans-serif;
            display: grid; place-items: center; min-height: 100vh; }

diff --git a/editor.html b/editor.html
@@ -6,6 +6,7 @@
 <title>Editor — ReadyMadeVideo</title>
 <meta name="description" content="Advanced AI-assisted editing studio.">
 <link rel="canonical" href="https://www.readymadevideo.com/editor.html">
+<link rel="icon" type="image/svg+xml" href="favicon.svg">
 <link rel="icon" type="image/x-icon" href="favicon.ico">
 <meta name="theme-color" content="#0a0a0f">
 <meta property="og:type" content="website">

diff --git a/new-project.html b/new-project.html
@@ -6,6 +6,7 @@
 <title>New Project — ReadyMadeVideo</title>
 <meta name="description" content="Start a new video project.">
 <link rel="canonical" href="https://www.readymadevideo.com/new-project.html">
+<link rel="icon" type="image/svg+xml" href="favicon.svg">
 <link rel="icon" type="image/x-icon" href="favicon.ico">
 <meta name="theme-color" content="#0a0a0f">
 <meta property="og:type" content="website">

diff --git a/upload.html b/upload.html
@@ -6,6 +6,7 @@
 <title>Upload Footage — ReadyMadeVideo</title>
 <meta name="description" content="Upload your raw footage.">
 <link rel="canonical" href="https://www.readymadevideo.com/upload.html">
+<link rel="icon" type="image/svg+xml" href="favicon.svg">
 <link rel="icon" type="image/x-icon" href="favicon.ico">
 <meta name="theme-color" content="#0a0a0f">
 <meta property="og:type" content="website">
